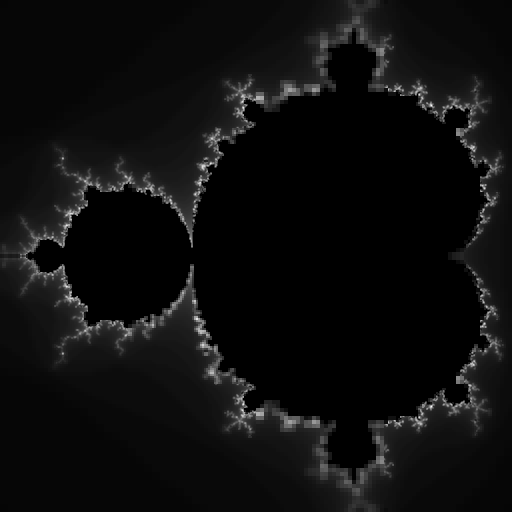
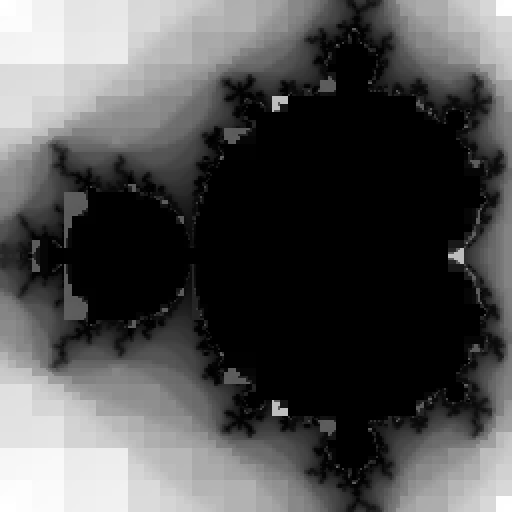
Separated the renderers into separate classes

diff --git a/renderer.py b/renderer.py
@@ -5,17 +5,15 @@ import time
 from math import ceil, floor
 import itertools
 
-class Renderer():
-	def __init__(self, xRes = 512, yRes = 512):
+class FullRenderer():
+	def __init__(self, xRes = 512, yRes = 512, AA = 0):
 		self.xRes = xRes
 		self.yRes = yRes
+		self.AA = min(AA, 7)
 
 		self.cam = Camera(xRes, yRes, xPos = -.5)
 
-		imsave('dynamic.png', self.renderQuadImage(10000, 100))
-		imsave('fullRes.png', self.renderImage(100))
-
-	def renderImage(self, maxIters):
+	def render(self, maxIters):
 		t = time.clock()
 
 		image = [[mandelbrot.render(self.cam.convertX(x), self.cam.convertY(y), maxIters) for x in range(self.xRes)] for y in range(self.yRes)]
@@ -23,42 +21,61 @@ class Renderer():
 		print("Render time was " + str(time.clock()-t) + " seconds.")
 		return image
 
-	def renderQuadImage(self, subdivMax, maxIters):
+class QuadRenderer():
+	def __init__(self, res = 512, AA = 0, disableMaxResAA = True):
+		self.res = res
+		self.AA = AA
+		self.disableMaxResAA = disableMaxResAA
+
+		self.cam = Camera(res, res, xPos = -.5)
+
+	def render(self, subdivMax, maxIters):
 		def sparseRender(x, y, size):
-			corn = []
-			for i in [(x, y), (x+size, y), (x, y+size), (x+size, y+size)]:
+			if size == 1 and self.disableMaxResAA:
+				return mandelbrot.render(self.cam.convertX(x), self.cam.convertY(y), maxIters)
+			half = size/2
+			pixelList = [(x, y), (x+size, y+size), (x+size, y), (x, y+size), (x+half, y+half), (x+half, y), (x, y+half), (x+half, y+size), (x+size, y+half)]
+			pix = []
+			for i in pixelList:
+				if len(pix) > self.AA+2:
+					break
 				if i in sparseArray:
-					corn.append(sparseArray[i])
+					pix.append(sparseArray[i])
 				else:
-					corn.append(mandelbrot.render(self.cam.convertX(i[0]), self.cam.convertY(i[1]), maxIters))
-					sparseArray[i] = corn[-1]
-			return sum(corn)
+					pix.append(mandelbrot.render(self.cam.convertX(i[0]), self.cam.convertY(i[1]), maxIters))
+					sparseArray[i] = pix[-1]
+			return sum(pix)
 
 		t = time.clock()
-		image = [[0 for x in range(self.xRes)] for y in range(self.yRes)]
+		image = [[0 for x in range(self.res)] for y in range(self.res)]
 		sparseArray = {}
 
-		s = floor(self.xRes/2)
+		s = floor(self.res/2)
 		quadList = [
 		Quad(0, 0, s, sparseRender(0, 0, s)),
 		Quad(0, s, s, sparseRender(0, s, s)),
 		Quad(s, 0, s, sparseRender(s, 0, s)),
 		Quad(s, s, s, sparseRender(s, s, s))]
-		sortLimit = 0
+		sortLimit = 0 # heuristically limit how often we sort to improve performance
 		while subdivMax:
 			subdivMax -= 1
 			sortLimit -= 1
-			if sortLimit <= 0:
+			if sortLimit <= 0 or quadList[0].priority == 0:
 				quadList.sort(key = lambda q: q.priority, reverse = True)
 				sortLimit = floor(len(quadList)/2)
+				if quadList[0].priority == 0:
+					break
 			current = quadList.pop(0)
 			newSize = floor(current.size/2)
 			for j in [(current.x, current.y), (current.x+newSize, current.y), (current.x, current.y+newSize), (current.x+newSize, current.y+newSize)]:
 				quadList.append(Quad(j[0], j[1], newSize, sparseRender(j[0], j[1], newSize)))
-		for q in quadList:
+		print(len(quadList))
+		for i in range(len(quadList)):
+			q = quadList[i]
 			for y in range(q.y, q.y + q.size):
 				for x in range(q.x, q.x + q.size):
-					image[y][x] = q.color
+					#image[y][x] = q.color
+					image[y][x] = i
 		print("Dynamic render time was " + str(time.clock()-t) + " seconds.")
 		return image
 
@@ -92,5 +109,8 @@ class Quad():
 		else:
 			self.priority = size*color
 
-
-Renderer()
+if __name__ == "__main__":
+	fullR = FullRenderer()
+	quadR = QuadRenderer(AA = 2, disableMaxResAA = True)
+	imsave('dynamic.png', quadR.render(100000, 100))
+	imsave('fullRes.png', fullR.render(100))
